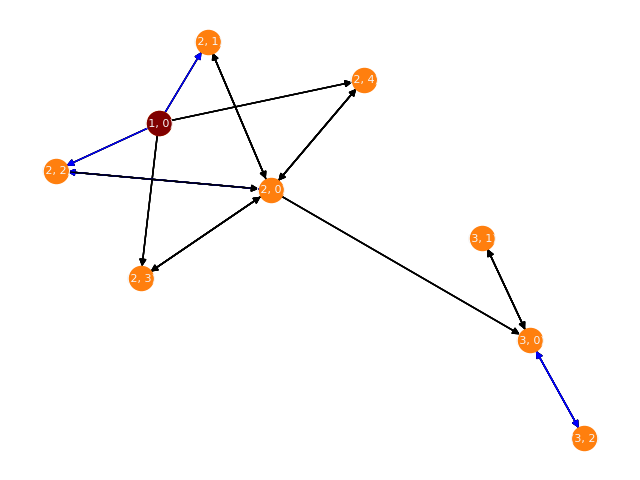
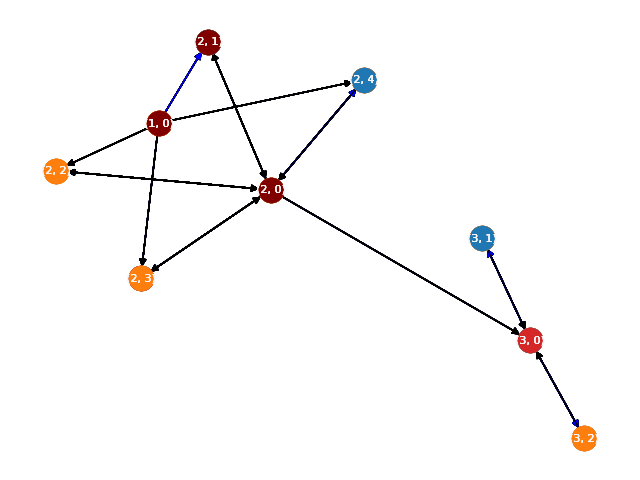
The acces_levels are fixed and now update to the network. Runtime is working and can be changed.

diff --git a/project/attacker.py b/project/attacker.py
@@ -46,8 +46,10 @@ class Attacker:
         """
         # Load attacks to launch based on attack strategy
         self.load_actions()
+        self.add_compromised_host(((1, 0), 2))
 
         while True:
+            print(self.compromised_hosts)
             if self.strategy == "Random Strategy":
                 # Run RST
                 yield self.env.process(self.random_strategy())
@@ -85,7 +87,14 @@ class Attacker:
     def random_strategy(self):
         # Check if host is already compromised.
         host = self.network.get_host(self.start)
-        if self.compromised_check(host.get_address()) != False or self.start == (1, 0):
+
+        if random.randint(0, 1) > 0.3:
+            # Else run a privilege escalation.
+            if self.start != (1, 0):
+                glob.logger.info(f"Start PrivilegeEscalation at {self.env.now}.")
+                yield self.env.process(self.privilege_escalation(host))
+
+        if self.compromised_check(host.get_address()) != False or self.compromised_check(host.get_address()) == 2:
             # If so then scan for other hosts and to compromised nodes.
             glob.logger.info(f"Start SubnetScan at {self.env.now}.")
             yield self.env.process(self.subnetscan())
@@ -101,10 +110,7 @@ class Attacker:
             else:
                 glob.logger.info(f"Start Exploit at {self.env.now}.")
                 yield self.env.process(self.exploit(edge))
-        else:
-            # Else run a privilege escalation.
-            glob.logger.info(f"Start PrivilegeEscalation at {self.env.now}.")
-            yield self.env.process(self.privilege_escalation(host))
+
 
     def zero_day_exploit(self):
         """
@@ -113,12 +119,13 @@ class Attacker:
         # Make a temp host for the run.
         host = self.network.get_host(self.start)
         # If the host had more that 3 neighbors we think it is valuable so get score.
-        if len(self.network.get_all_edges_from(self.start)) > 3 and self.start != (1, 0):
-            # Run a privilege escalation.
-            glob.logger.info(f"Start PrivilegeEscalation at {self.env.now}.")
-            yield self.env.process(self.privilege_escalation(host))
+        if len(self.network.get_all_edges_from(self.start)) > 3:
+            if self.start != (1, 0):
+                # Run a privilege escalation.
+                glob.logger.info(f"Start PrivilegeEscalation at {self.env.now}.")
+                yield self.env.process(self.privilege_escalation(host))
 
-        if self.compromised_check(host.get_address()) != False or self.start == (1, 0):
+        if self.compromised_check(host.get_address()) != False:
             # If so then scan for other hosts and to compromised nodes.
             glob.logger.info(f"Start SubnetScan at {self.env.now}.")
             yield self.env.process(self.subnetscan())
@@ -134,7 +141,8 @@ class Attacker:
             else:
                 glob.logger.info(f"Start Exploit at {self.env.now}.")
                 yield self.env.process(self.exploit(edge))
-        else:
+
+        if self.start != (1,0):
             # Else run a privilege escalation till you have the score.
             glob.logger.info(f"Start PrivilegeEscalation at {self.env.now}.")
             yield self.env.process(self.privilege_escalation(host))
@@ -144,10 +152,11 @@ class Attacker:
         # Make a temp host for the run.
         host = self.network.get_host(self.start)
 
-        if self.compromised_check(host.get_address()) != 2 and self.start != (1, 0):
-            # Run a privilege escalation till root level.
-            glob.logger.info(f"Start PrivilegeEscalation at {self.env.now}.")
-            yield self.env.process(self.privilege_escalation(host))
+        if self.compromised_check(host.get_address()) != 2:
+            if self.start != (1, 0):
+                # Run a privilege escalation till root level.
+                glob.logger.info(f"Start PrivilegeEscalation at {self.env.now}.")
+                yield self.env.process(self.privilege_escalation(host))
         else:
             # If so then scan for other hosts and to compromised nodes.
             glob.logger.info(f"Start SubnetScan at {self.env.now}.")
@@ -189,8 +198,8 @@ class Attacker:
             self.network.add_failed_att_edges(vulnerable_edge)
         else:
             glob.logger.info(f"Exploit succeeded on edge {vulnerable_edge.get_both_addr()} at {self.env.now}.")
-            self.compromised_hosts.append(vulnerable_edge.get_source_addr())
-            self.start = vulnerable_edge.get_source_addr()
+            self.add_compromised_host((vulnerable_edge.get_dest_addr(), 0))
+            self.start = vulnerable_edge.get_dest_addr()
 
 
     def privilege_escalation(self, host):
@@ -198,6 +207,13 @@ class Attacker:
         The privilege escalation function which tries to escalate privelege.
         """
         priv_esc = self.lowest_cost(host.possible_attacks())
+        if priv_esc == None:
+            # Priv_esc has failed.
+            glob.logger.info(f"Privilege escalation failed on host {host.get_address()} at {self.env.now}.")
+            self.network.add_failed_att_hosts(host)
+            self.start = random.choice(self.scanned_hosts).get_address()
+            return
+
         self.update_cost(priv_esc.get_cost())
         yield self.env.timeout(priv_esc.get_duration())
 
@@ -243,13 +259,14 @@ class Attacker:
         """
         Add a new compromised host to the list or update existing host with higher acces level.
         """
-        for host in self.compromised_hosts:
+        for i, host in enumerate(self.compromised_hosts):
             if item[0] == host[0]:
                 if item[1] == host[1]:
                     return
                 if item[1] > host[1]:
-                    host[1] = item[1]
+                    self.compromised_hosts[i] = (item[0], item[1])
                     return
+                return
 
         # This is if it is not in the list.
         self.compromised_hosts.append(item)
@@ -283,6 +300,6 @@ class Attacker:
         """
         for host in self.compromised_hosts:
             if host[0] == address:
-                return host[2]
+                return host[1]
 
         return False

diff --git a/project/simulator.py b/project/simulator.py
@@ -140,8 +140,8 @@ class App(customtkinter.CTk):
         # Runtime selection
         self.label_3 = customtkinter.CTkLabel(master=self.option_frame, text="Set the simulation run time:")
         self.label_3.grid(row=2, column=0, padx=20, pady=20, sticky="nw")
-        self.time_entry = customtkinter.CTkEntry(master=self.option_frame, placeholder_text="Simulation time")
-        self.time_entry.grid(row=2, column=1, padx=(20, 20), pady=(20, 20), sticky="nw")
+        self.runtime = customtkinter.CTkEntry(master=self.option_frame, placeholder_text="Simulation time")
+        self.runtime.grid(row=2, column=1, padx=(20, 20), pady=(20, 20), sticky="nw")
 
         # Outpuf filename selection
         self.label_4 = customtkinter.CTkLabel(master=self.option_frame, text="Set the output file name:")
@@ -337,11 +337,11 @@ class App(customtkinter.CTk):
         else:
             glob.NUM_SIMS = self.sim_entry.get()
 
-        if self.time_entry.get() == "":
+        if self.runtime.get() == "":
             CTkMessagebox(master=app, title="Error", message="The simulation time entry is empty!", icon="warning")
             return True
         else:
-            glob.MAX_RUNTIME = self.time_entry.get()
+            glob.MAX_RUNTIME = self.runtime.get()
 
         if self.file_entry.get() == "":
             CTkMessagebox(master=app, title="Error", message="The output filename is not chosen!", icon="warning")

diff --git a/project/event_handler.py b/project/event_handler.py
@@ -45,8 +45,10 @@ def start_simulation():
     generate_defender(env, N)
 
     # Run the simulation with multiple termination cireteria.
-    env.run(until=glob.MAX_RUMTIME)
+    env.run(until=glob.MAX_RUNTIME)
 
     glob.logger.info(f"Simulation ended at time: {env.now}")
+
+
 
     nw.draw_network(N)

diff --git a/project/globals.py b/project/globals.py
@@ -8,7 +8,7 @@ from actions_att import Exploit, PrivilegeEscalation
 
 
 
-MAX_RUMTIME = 60
+MAX_RUNTIME = 60
 NUM_SIMS = 1
 OUT_FILENAME = "output"
 
